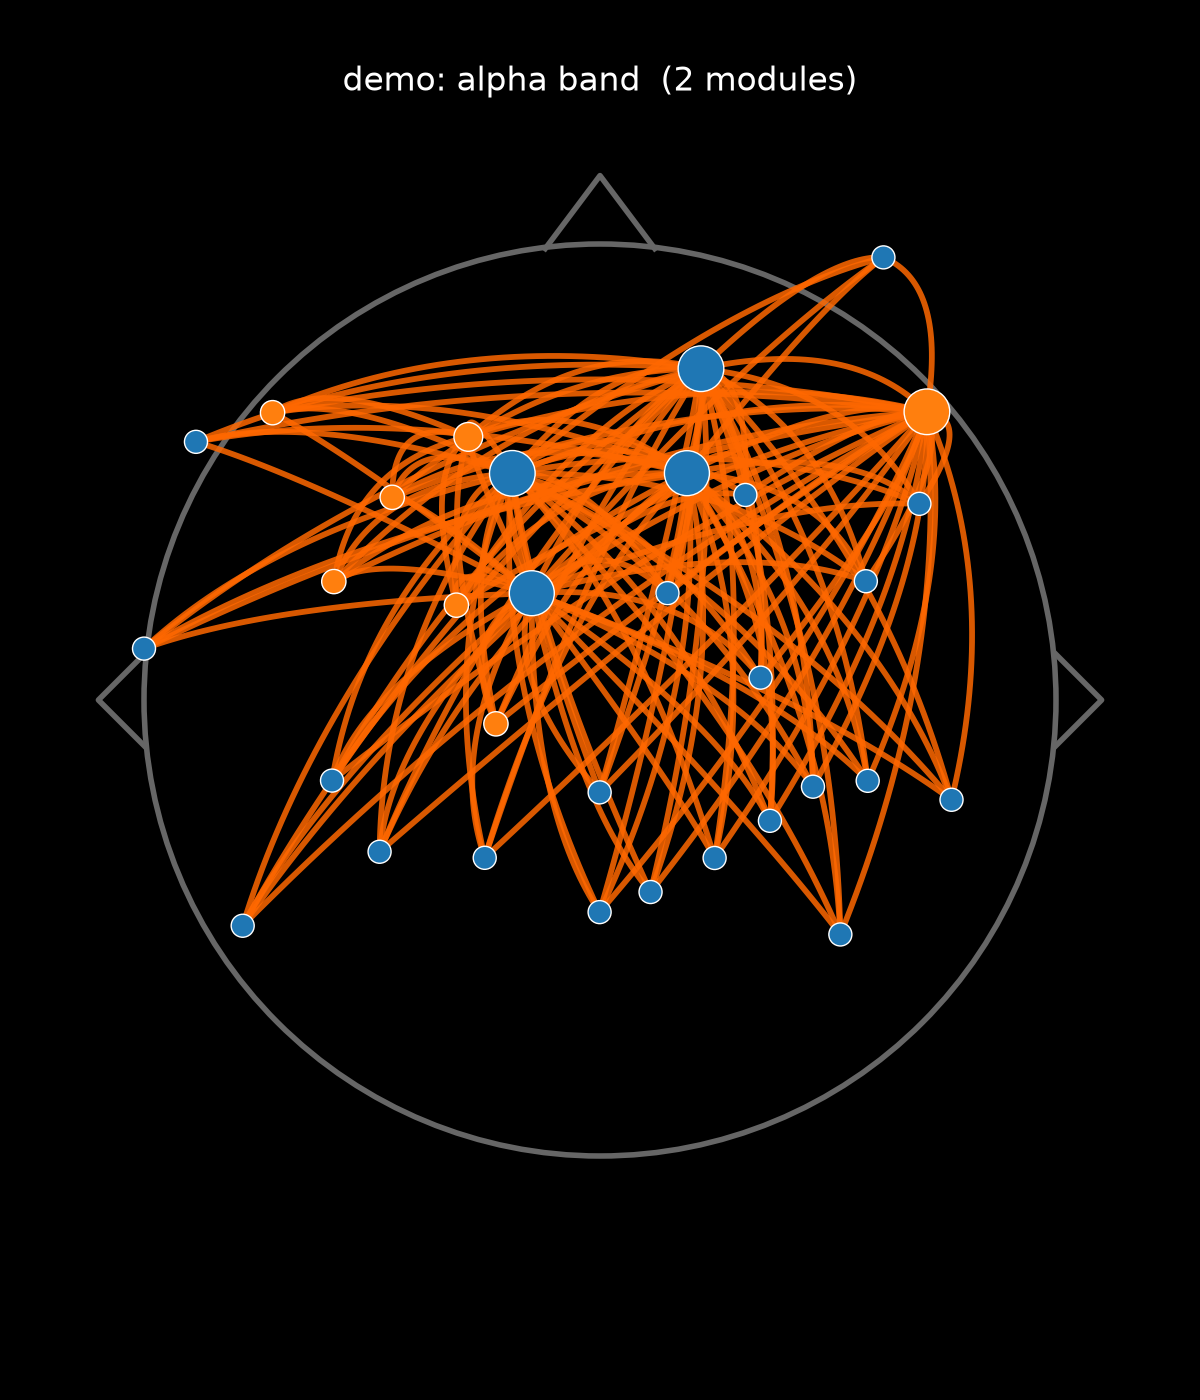
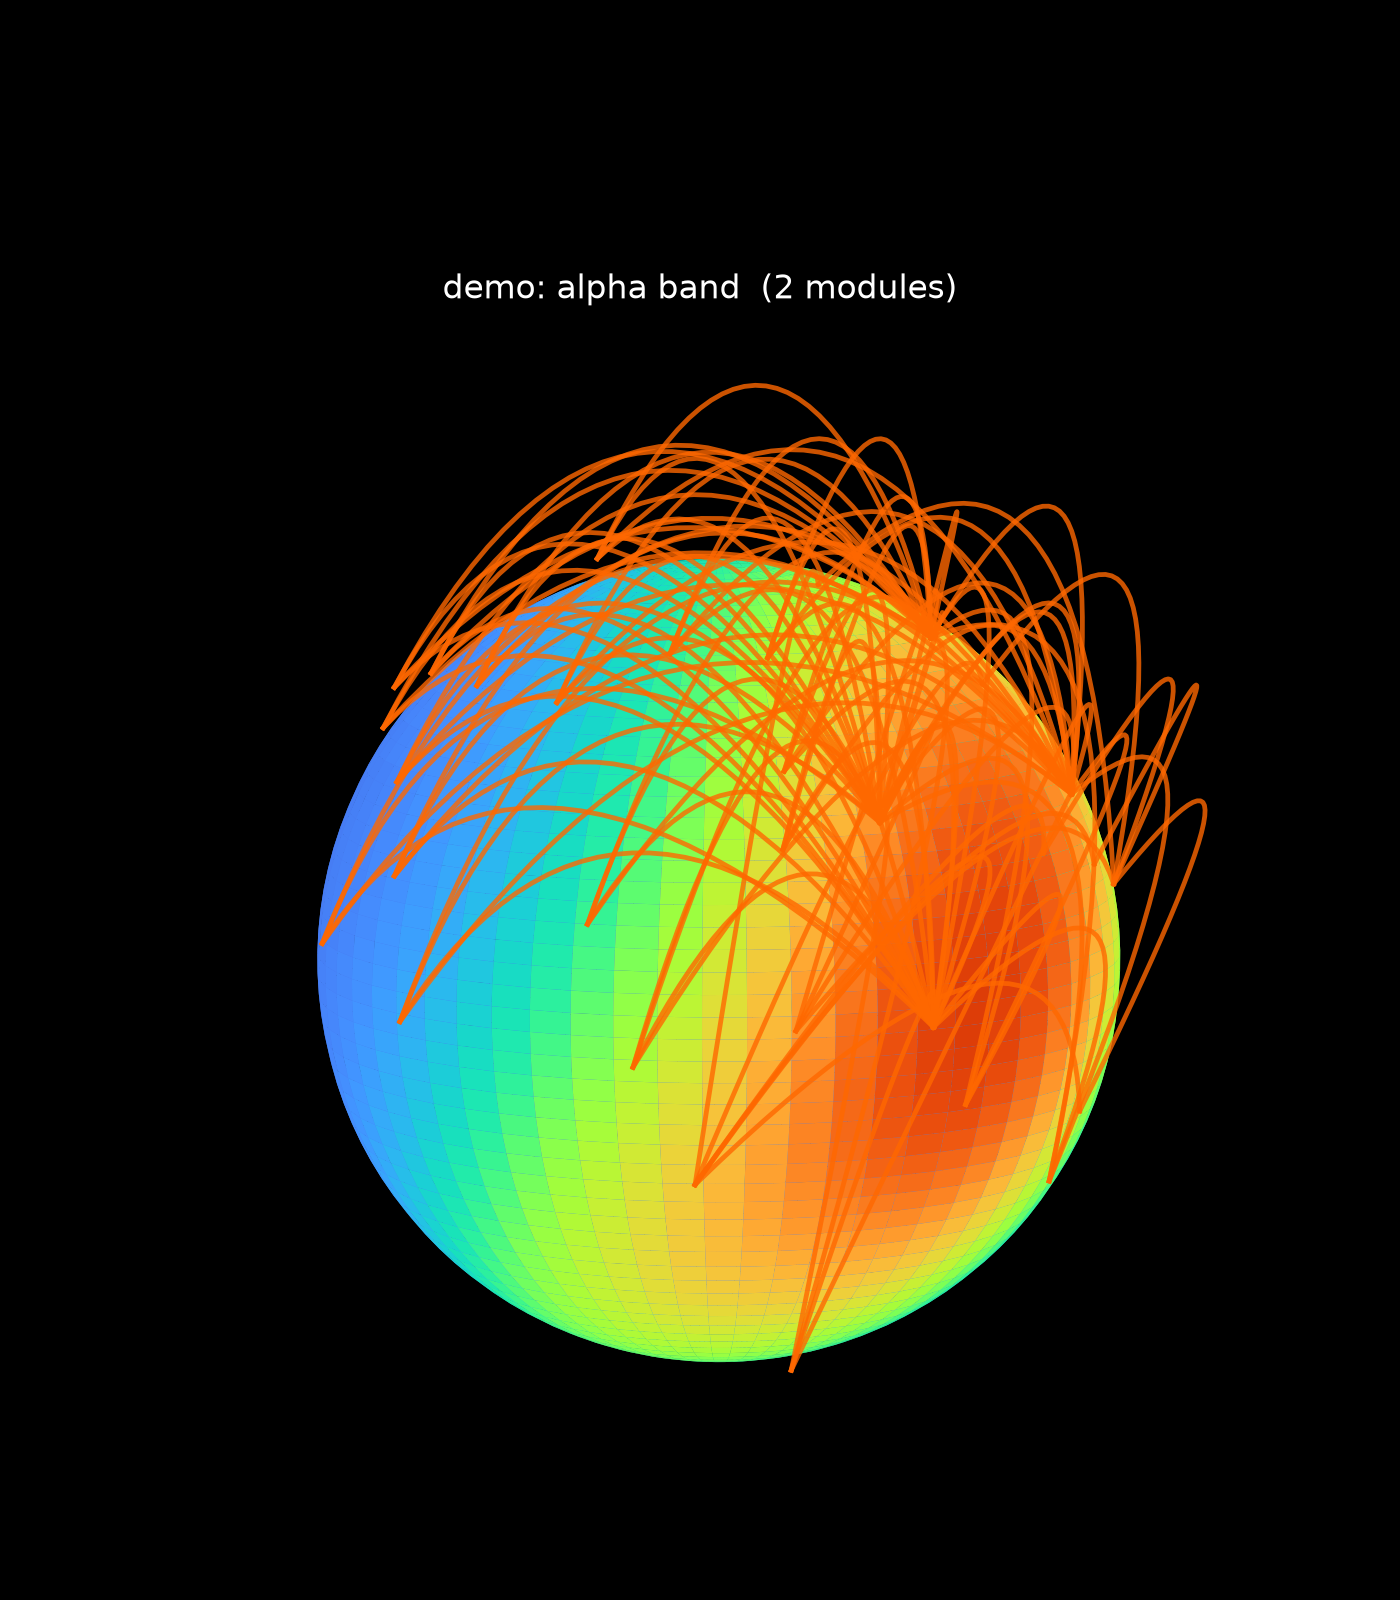
Add 3D "mohawk" topograph; verify against paper and real EEG
Adds a faithful 3D reconstruction of the signature MOHAWK connectivity plot
(plothead.m / plotgraph3d.m): a scalp sphere coloured by weighted node degree
with the strongest 30% of within-module edges drawn as arcs rising into a
crest above the head, coloured by connection strength (jet) or module. Wired
into the pipeline as the primary *_mohawk figure; the flat topographic network
is kept as a supplementary *_network figure.

Cross-checked method parameters against Chennu et al. (2017), Brain: multitaper
with five Slepian tapers (tapsmofrq 0.3 over 10 s epochs), dwPLI
(wpli2_debiased), bands delta/theta/alpha, proportional density thresholding,
and the graph metrics — all consistent with the port.

Also validated end-to-end on a real 128-channel EGI .mff recording (250 Hz):
MNE reads the net coordinates.xml into head coordinates, so the 3D renderer
needs no manual coordinate manipulation. The output reproduces the paper's
figure and shows band-specific modular structure.

Tests: adds plotting smoke tests (37 passing total).

Privacy: real/personal EEG data and derived outputs are git-ignored
(data/, out_real/, *.mff, run_real.py); only synthetic examples are committed.

Claude-Session: https://claude.ai/code/session_018C6t1GkDYku4dexW5MCMrv

diff --git a/mohawk/plotting.py b/mohawk/plotting.py
@@ -112,6 +112,151 @@ def plot_connectivity_matrix(
     return fig
 
 
+def _scalp_field(P, center, elec_pos, values, sigma=0.25):
+    """Interpolate electrode ``values`` onto surface points ``P`` (RBF on sphere)."""
+    dirs = elec_pos - center
+    dirs = dirs / (np.linalg.norm(dirs, axis=1, keepdims=True) + 1e-12)
+    Pd = P - center
+    Pn = Pd / (np.linalg.norm(Pd, axis=-1, keepdims=True) + 1e-12)
+    field = np.zeros(P.shape[:-1])
+    wsum = np.zeros(P.shape[:-1])
+    for k in range(len(elec_pos)):
+        cosang = np.tensordot(Pn, dirs[k], axes=([-1], [0]))
+        w = np.exp(-(1 - cosang) / sigma)
+        field += w * values[k]
+        wsum += w
+    return field / (wsum + 1e-12)
+
+
+def _arc3d(p0, p1, center, height, up_bias=1.8, n=32):
+    """3D quadratic-Bezier arc rising above the scalp into an upward crest.
+
+    The control point is lifted from the edge midpoint along a direction that
+    blends the outward scalp normal with a strong ``+z`` (up) bias, so the arcs
+    sprout upward like the "mohawk" of Chennu et al. (2017) rather than
+    radiating in all directions.
+    """
+    mid = (p0 + p1) / 2
+    out = mid - center
+    out = out / (np.linalg.norm(out) + 1e-12)
+    lift = out + up_bias * np.array([0.0, 0.0, 1.0])
+    lift = lift / (np.linalg.norm(lift) + 1e-12)
+    ctrl = mid + lift * height
+    t = np.linspace(0, 1, n)[:, None]
+    return (1 - t) ** 2 * p0 + 2 * (1 - t) * t * ctrl + t ** 2 * p1
+
+
+def plot_mohawk_3d(
+    conn,
+    band_idx: int,
+    pos3d: np.ndarray,
+    cfg: PlotConfig | None = None,
+    arcs: str = "strength",
+    outpath: str | None = None,
+    basename: str = "",
+    seed: int | None = None,
+    elev: float = 8.0,
+    azim: float = 45.0,
+):
+    """3D "mohawk" connectivity topograph (faithful to plothead.m / plotgraph3d.m).
+
+    A scalp surface coloured by weighted node degree, with the strongest
+    ``cfg.plot_quantile`` proportion of within-module edges drawn as arcs that
+    rise above the head (height proportional to connection strength), coloured
+    either by strength (jet) or by module.  This reproduces the signature
+    figure of Chennu et al. (2017).
+    """
+    cfg = cfg or PlotConfig()
+    matrix = np.nan_to_num(conn.matrix[band_idx].copy())
+    n = matrix.shape[0]
+
+    matrix = G.threshold_proportional(matrix, cfg.plot_quantile)
+    vsize = matrix.sum(axis=1) / (n - 1)
+    minfo, _ = G.community_louvain(matrix, seed=seed)
+
+    e0, e1 = cfg.erange
+    escaled = np.clip((matrix - e0) / (e1 - e0), 0, 1)
+
+    center = _fit_sphere(pos3d)
+    radius = np.linalg.norm(pos3d - center, axis=1).mean()
+
+    fig = plt.figure(figsize=(7, 8), facecolor="black")
+    ax = fig.add_subplot(111, projection="3d")
+    ax.set_facecolor("black")
+    ax.set_position([0, 0, 1, 1])  # fill the figure, no wasted margin
+
+    # --- scalp surface coloured by weighted degree (headplot equivalent) ---
+    u = np.linspace(0, 2 * np.pi, 60)
+    v = np.linspace(0, np.pi, 60)
+    sx = center[0] + radius * np.outer(np.cos(u), np.sin(v))
+    sy = center[1] + radius * np.outer(np.sin(u), np.sin(v))
+    sz = center[2] + radius * np.outer(np.ones_like(u), np.cos(v))
+    P = np.stack([sx, sy, sz], axis=-1)
+    field = _scalp_field(P, center, pos3d, vsize)
+    fmin, fmax = field.min(), field.max()
+    norm = (field - fmin) / (fmax - fmin + 1e-12)
+    scalp_colors = plt.get_cmap('turbo')(0.15 + 0.7 * norm)
+    ax.plot_surface(
+        sx, sy, sz, facecolors=scalp_colors, rcount=60, ccount=60,
+        linewidth=0, antialiased=True, shade=False, zorder=1,
+    )
+
+    # --- arcs (mohawk), strongest within-module edges ---
+    mod_cmap = plt.get_cmap("tab10")
+    modules = np.unique(minfo)
+    mod_color = {m: mod_cmap(i % 10) for i, m in enumerate(modules)}
+    strength_cmap = plt.get_cmap("jet")
+
+    triu = np.array(np.triu_indices(n, k=1)).T
+    weights = np.array([escaled[i, j] for i, j in triu])
+    for k in np.argsort(weights):
+        i, j = triu[k]
+        w = escaled[i, j]
+        if w <= 0:
+            continue
+        if minfo[i] != minfo[j]:
+            continue  # intra-module edges only (plotinter='off')
+        color = strength_cmap(w) if arcs == "strength" else mod_color[minfo[i]]
+        height = (0.25 + 1.0 * w) * radius  # lhfactor-like lift
+        arc = _arc3d(pos3d[i], pos3d[j], center, height)
+        ax.plot(arc[:, 0], arc[:, 1], arc[:, 2], color=color,
+                lw=0.6 + 1.4 * w, alpha=0.8, zorder=3)
+
+    # Frame the head plus the upward crest: shift the box up and keep equal
+    # aspect so the sphere is undistorted.
+    r = radius * 1.5
+    ax.set_xlim(center[0] - r, center[0] + r)
+    ax.set_ylim(center[1] - r, center[1] + r)
+    ax.set_zlim(center[2] - r * 0.7, center[2] + r * 1.3)
+    try:
+        ax.set_box_aspect((1, 1, 1), zoom=1.45)
+    except TypeError:
+        ax.set_box_aspect((1, 1, 1))
+    except Exception:
+        pass
+    ax.view_init(elev=elev, azim=azim)
+    ax.set_axis_off()
+    ax.set_title(f"{basename}: {BAND_NAMES[band_idx]} band  "
+                 f"({len(modules)} modules)", color="white", y=0.92)
+    if outpath:
+        fig.savefig(outpath, dpi=200, facecolor="black")
+        plt.close(fig)
+    return fig, minfo
+
+
+def _set_equal_3d(ax, pos, radius):
+    """Set equal aspect ratio for a 3D axis around the head."""
+    c = pos.mean(axis=0)
+    r = radius * 2.2
+    ax.set_xlim(c[0] - r, c[0] + r)
+    ax.set_ylim(c[1] - r, c[1] + r)
+    ax.set_zlim(c[2] - r, c[2] + r)
+    try:
+        ax.set_box_aspect((1, 1, 1))
+    except Exception:
+        pass
+
+
 def plot_head_network(
     conn,
     band_idx: int,

diff --git a/tests/test_plotting.py b/tests/test_plotting.py
@@ -1,0 +1,66 @@
+"""Smoke tests for figure generation (mohawk.plotting)."""
+
+import os
+
+import numpy as np
+import pytest
+
+from mohawk import plotting
+from mohawk.config import PlotConfig
+from mohawk.connectivity import calc_connectivity
+from mohawk.datasets import synthetic_raw
+from mohawk.epoching import make_epochs
+from mohawk.preprocess import preprocess_raw
+
+
+@pytest.fixture(scope="module")
+def small_conn():
+    raw = synthetic_raw(duration=50.0, n_channels=16, seed=4)
+    preprocess_raw(raw)
+    epochs = make_epochs(raw)
+    conn = calc_connectivity(epochs)
+    pos = np.array(
+        [epochs.get_montage().get_positions()["ch_pos"][ch] for ch in epochs.ch_names]
+    )
+    return conn, pos
+
+
+def test_azimuthal_positions_centered():
+    # points on a sphere project into the unit disc, vertex near origin
+    rng = np.random.default_rng(0)
+    p = rng.standard_normal((20, 3))
+    p /= np.linalg.norm(p, axis=1, keepdims=True)
+    xy = plotting.azimuthal_positions(p)
+    assert xy.shape == (20, 2)
+    assert np.all(np.isfinite(xy))
+
+
+def test_plot_mohawk_3d_writes_file(tmp_path, small_conn):
+    conn, pos = small_conn
+    out = tmp_path / "mohawk3d.png"
+    fig, minfo = plotting.plot_mohawk_3d(
+        conn, 2, pos, PlotConfig(), arcs="strength",
+        outpath=str(out), basename="t", seed=1,
+    )
+    assert out.exists() and out.stat().st_size > 0
+    assert len(minfo) == pos.shape[0]
+
+
+def test_plot_head_network_writes_file(tmp_path, small_conn):
+    conn, pos = small_conn
+    out = tmp_path / "net.png"
+    fig, minfo = plotting.plot_head_network(
+        conn, 2, pos, PlotConfig(), outpath=str(out), basename="t", seed=1
+    )
+    assert out.exists() and out.stat().st_size > 0
+
+
+def test_plot_spectrum_writes_file(tmp_path):
+    from mohawk.spectrum import calc_spectrum
+    raw = synthetic_raw(duration=40.0, n_channels=12, seed=5)
+    preprocess_raw(raw)
+    epochs = make_epochs(raw)
+    spec = calc_spectrum(epochs)
+    out = tmp_path / "spec.png"
+    plotting.plot_spectrum(spec, str(out), "t")
+    assert out.exists() and out.stat().st_size > 0

diff --git a/mohawk/pipeline.py b/mohawk/pipeline.py
@@ -125,7 +125,15 @@ def run_pipeline(
         figures["spectrum"] = spec_path
         for b in plot_bands:
             name = config.band_names[b]
-            net_path = os.path.join(figdir, f"{basename}_{name}_mohawk.png")
+            # signature 3D "mohawk" topograph (plothead.m)
+            mohawk_path = os.path.join(figdir, f"{basename}_{name}_mohawk.png")
+            plotting.plot_mohawk_3d(
+                conn, b, pos, config.plot, arcs="strength",
+                outpath=mohawk_path, basename=basename, seed=seed,
+            )
+            figures[f"mohawk_{name}"] = mohawk_path
+            # supplementary flat topographic network
+            net_path = os.path.join(figdir, f"{basename}_{name}_network.png")
             plotting.plot_head_network(
                 conn, b, pos, config.plot, arcs="strength",
                 outpath=net_path, basename=basename, seed=seed,

diff --git a/PYTHON.md b/PYTHON.md
@@ -140,6 +140,38 @@ expected behaviour:
   heterogeneous edge strengths — the band-specific network discrimination that
   is the point of MOHAWK.
 
+## Cross-check against the paper and real EEG
+
+The method parameters were checked directly against Chennu et al. (2017),
+*Brain* 140:2120-2132:
+
+* power estimated 0.5-45 Hz with a **multitaper method using five Slepian
+  tapers** — `tapsmofrq = 0.3` over 10 s epochs yields exactly five tapers,
+  which the port matches (`bandwidth = 0.6` Hz full-width);
+* connectivity is the **debiased weighted phase lag index (dwPLI)**, mapped to
+  MNE's `wpli2_debiased`;
+* canonical bands delta (0-4), theta (4-8), alpha (8-13) Hz;
+* dwPLI matrices proportionally thresholded across connection densities;
+* graph metrics: clustering, characteristic path length, Louvain modularity,
+  participation coefficient, and modular span — all implemented here.
+
+The pipeline was also run end-to-end on a real 128-channel EGI `.mff` recording
+(250 Hz). MNE reads the net's `coordinates.xml` directly into head coordinates,
+so no manual coordinate manipulation was needed; the 3D "mohawk" renderer fits a
+sphere to those positions. The output reproduces the paper's signature figure —
+a scalp map coloured by network hub strength with connectivity arcs rising into
+a crest above the head — and shows band-specific modular structure (e.g. fewer,
+larger modules in delta than alpha).
+
+The **3D mohawk** plot (`mohawk.plotting.plot_mohawk_3d`) is a Matplotlib
+reconstruction of the EEGLAB `headplot`-based rendering; it uses a spherical
+scalp model rather than a subject MRI mesh, but preserves the scalp power map,
+the strength/module arc colouring, and the raised-arc "mohawk" geometry.
+
+> Note: real patient EEG data is personal/health information and is **not**
+> committed to this repository (`data/`, `out_real/`, and `*.mff` are
+> git-ignored). Only synthetic example figures are included.
+
 ## Scope
 
 This port covers the **single-subject** pipeline (`mohawk.m`), which is the

diff --git a/examples/README.md b/examples/README.md
@@ -13,6 +13,15 @@ uv run mohawk --demo -o out_demo
 | File | MATLAB analogue | What it shows |
 |---|---|---|
 | `demo_spec.png` | `plotftspec.m` | log power spectrum; sharp 10 Hz alpha peak, band markers |
-| `demo_alpha_mohawk.png` | `plothead.m` | alpha brain-network topograph; 2 modules = the injected clusters |
-| `demo_delta_mohawk.png` | `plothead.m` | delta network; fragmented (no coupling injected) |
+| `demo_alpha_mohawk.png` | `plothead.m` | 3D "mohawk" topograph, alpha band; arcs rise into the crest, scalp coloured by weighted degree, 2 modules = the injected clusters |
+| `demo_delta_mohawk.png` | `plothead.m` | 3D mohawk, delta band (no coupling injected) |
+| `demo_alpha_network.png` | `plotgraph3d.m` | flat topographic network (supplementary view) |
 | `demo_alpha_conn.png` | (connectivity matrix) | alpha dwPLI matrix; uniformly high, zero diagonal |
+
+The 3D mohawk plots use a spherical scalp model coloured by weighted node
+degree, with the strongest 30% of within-module edges drawn as arcs rising
+above the head — the signature visualisation of Chennu et al. (2017),
+reproduced here in Matplotlib.
+
+> These examples use **synthetic** data only. No real or personal EEG recordings
+> are included in this repository.
